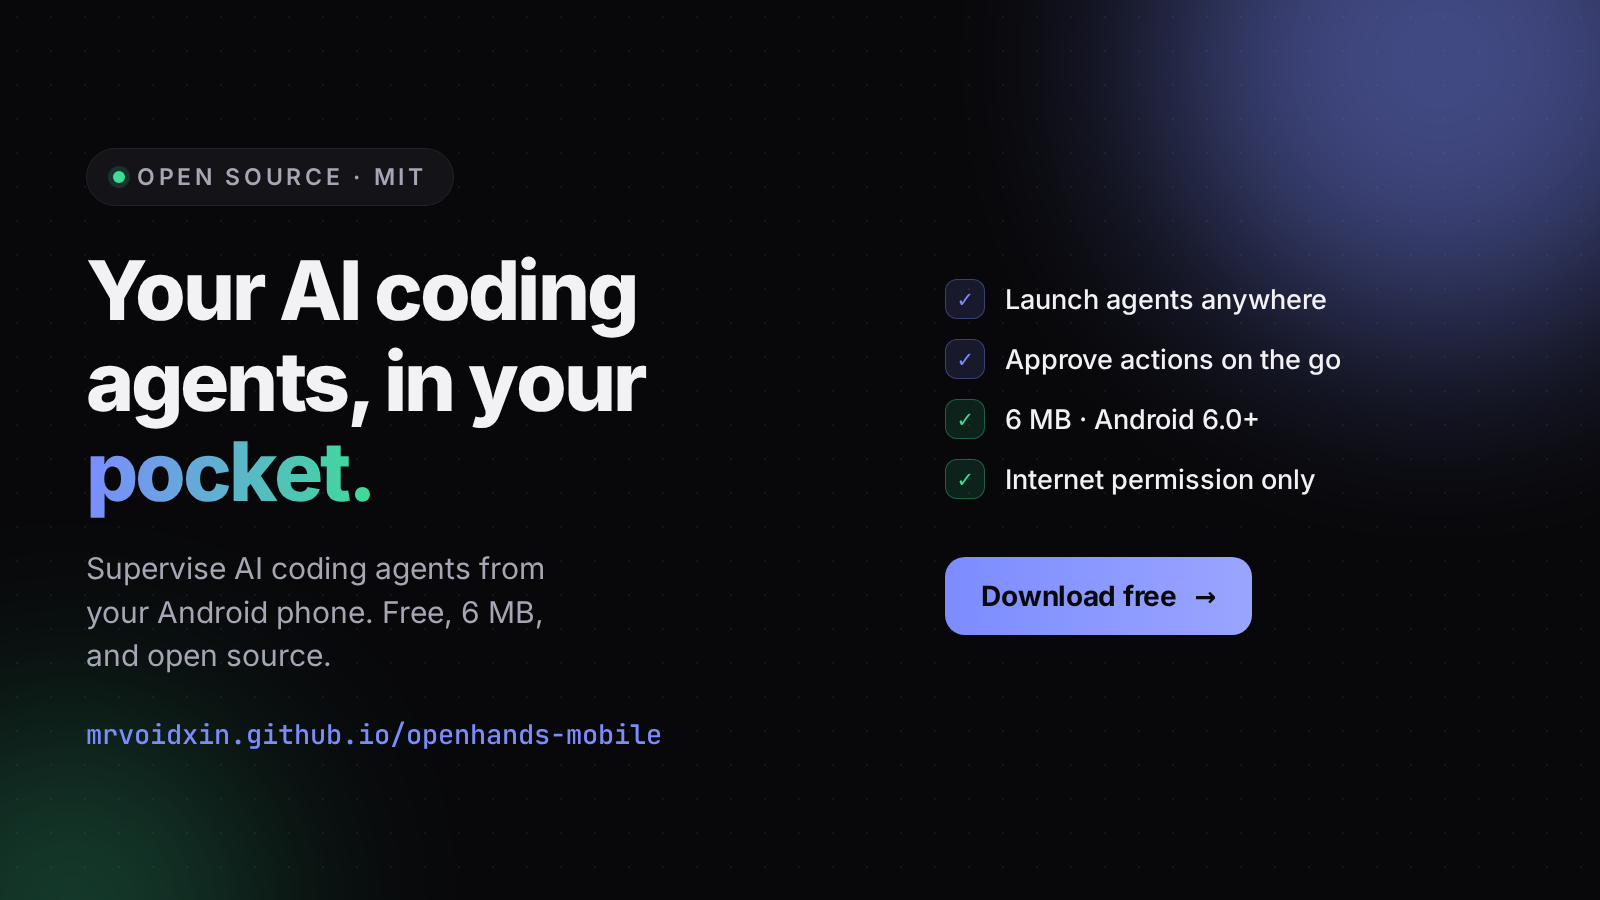
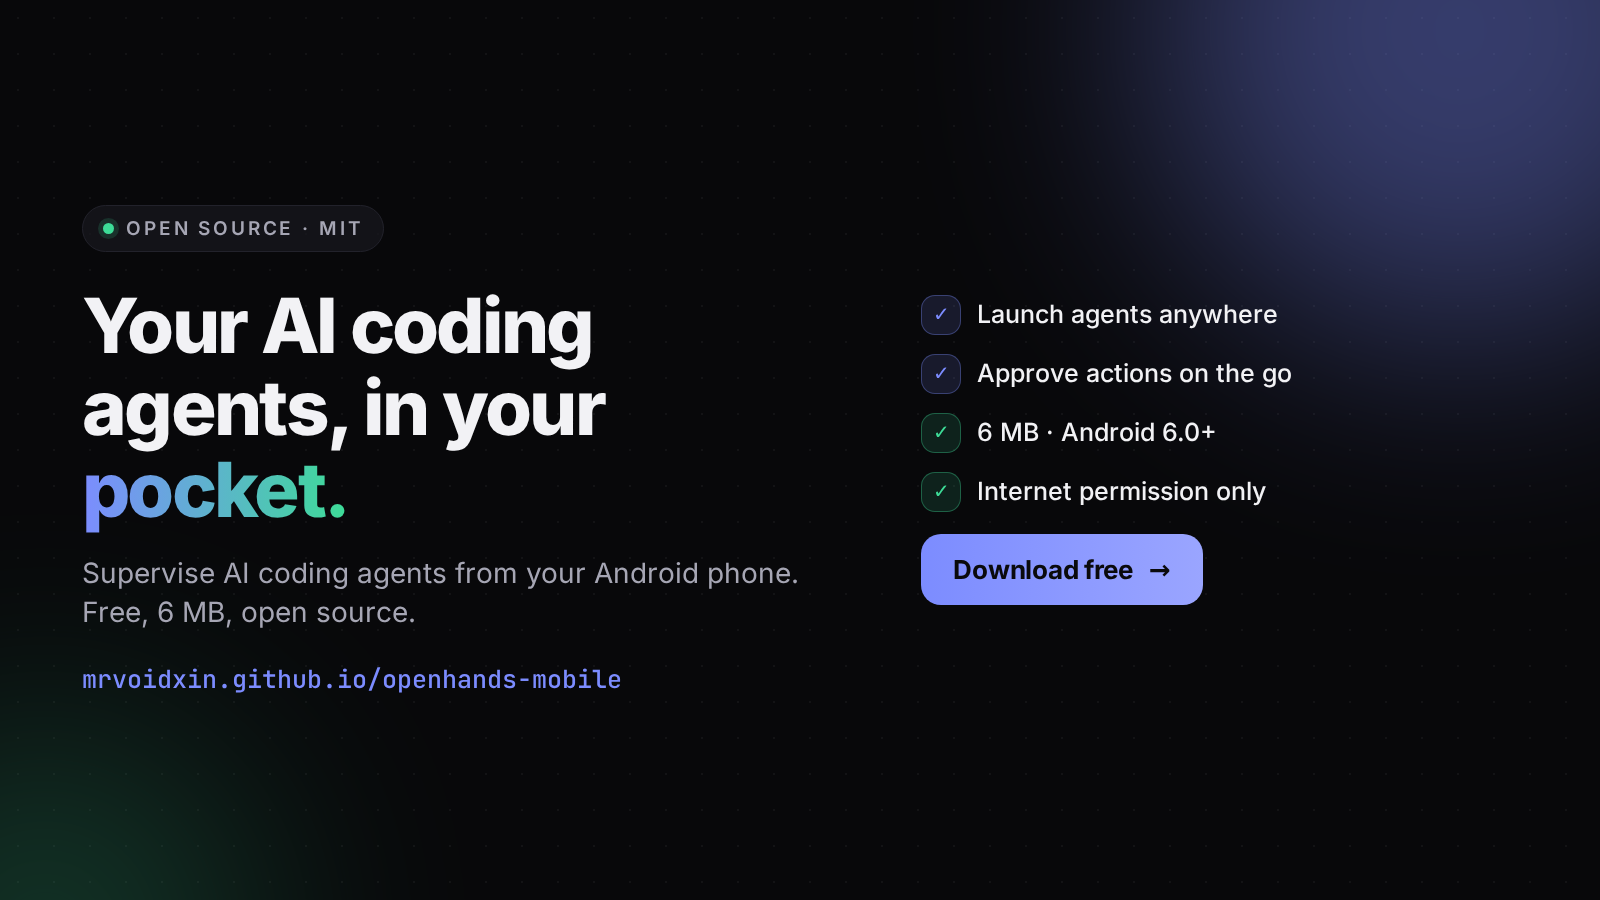
Make the promo art survive Instagram's grid crop
Instagram previews the profile grid as a 3:4 tile, so a square post is shown
with 135px trimmed off each side and a taller one is trimmed to match. The
first set put the headline and the URL near the edges, so the grid cropped
them: the post looked cut off.

Rebuilt every card around a centred 800px column - narrower than the 810px
a square post keeps in the grid - with the content vertically centred, so the
whole composition survives both the 1:1 and the 4:5 tile. A centred design
also hides the crop itself, instead of leaving a visible seam.

Ships each design in both formats: 1080x1350 (4:5) as the feed-first default
because it fills the most space, and 1080x1080 (1:1) for anyone on a square
grid. The wide banner is unchanged in size and only for X, LinkedIn, Reddit
and the GitHub social preview.

Verified every image: dimensions exact, all content inside the visible grid
band, no element leaving the frame, content column fits vertically, the CTA
button painted with the accent gradient, and no white edge on any border.

diff --git a/docs/promo/index.html b/docs/promo/index.html
@@ -12,43 +12,49 @@
     --text:#F2F2F5;--text-muted:#A6A6B4;--accent:#7C8CFF;--accent-2:#3DDC97;
   }
   *{box-sizing:border-box;margin:0;padding:0}
-  body{
-    background:var(--bg);color:var(--text);line-height:1.6;
+  body{background:var(--bg);color:var(--text);line-height:1.6;
     font-family:Inter,system-ui,-apple-system,"Segoe UI",sans-serif;
-    -webkit-font-smoothing:antialiased;padding:28px 18px 90px;
-  }
-  .wrap{max-width:880px;margin:0 auto}
+    -webkit-font-smoothing:antialiased;padding:28px 18px 90px}
+  .wrap{max-width:900px;margin:0 auto}
   h1{font-size:clamp(28px,6vw,42px);letter-spacing:-.03em;font-weight:800;line-height:1.1}
-  h2{font-size:clamp(19px,4vw,24px);letter-spacing:-.02em;font-weight:700;margin:44px 0 6px}
+  h2{font-size:clamp(19px,4vw,24px);letter-spacing:-.02em;font-weight:700;margin:46px 0 4px}
+  h3{font-size:16px;font-weight:600;margin-bottom:2px}
   .lead{color:var(--text-muted);margin-top:10px;font-size:16px}
-  .note{
-    border:1px solid var(--border);background:var(--surface);border-radius:14px;
-    padding:16px 18px;margin-top:22px;color:var(--text-muted);font-size:15px;
-  }
+  .note{border:1px solid var(--border);background:var(--surface);border-radius:14px;
+    padding:16px 18px;margin-top:20px;color:var(--text-muted);font-size:15px}
   .note b{color:var(--text)}
-  .grid{display:grid;gap:18px;margin-top:20px;grid-template-columns:repeat(auto-fit,minmax(240px,1fr))}
+  .note.warn{border-color:rgba(61,220,151,.34);background:rgba(61,220,151,.06)}
+  .note.warn b{color:var(--accent-2)}
+  .pick{display:grid;gap:14px;margin-top:18px;grid-template-columns:repeat(auto-fit,minmax(250px,1fr))}
+  .pickcard{border:1px solid var(--border);background:var(--surface);border-radius:14px;padding:16px 18px}
+  .pickcard.best{border-color:rgba(124,140,255,.5);background:rgba(124,140,255,.07)}
+  .pickcard h3{font-size:16px;font-weight:700}
+  .badge{display:inline-block;font-size:11px;font-weight:700;letter-spacing:.08em;text-transform:uppercase;
+    color:var(--accent-2);border:1px solid rgba(61,220,151,.4);border-radius:999px;padding:3px 9px;margin-bottom:8px}
+  .pickcard p{font-size:14px;color:var(--text-muted);margin-top:6px}
+  .grid{display:grid;gap:18px;margin-top:18px;grid-template-columns:repeat(auto-fit,minmax(250px,1fr))}
   figure{background:var(--surface);border:1px solid var(--border);border-radius:16px;overflow:hidden}
   figure img{display:block;width:100%;height:auto;background:var(--bg)}
   figcaption{padding:12px 14px;font-size:13px;color:var(--text-muted);display:flex;justify-content:space-between;gap:10px;align-items:center}
   figcaption b{color:var(--text);font-weight:600;font-size:14px;display:block}
-  .dl{font-size:12px;color:var(--accent);text-decoration:none;border:1px solid var(--border);padding:6px 11px;border-radius:999px;white-space:nowrap}
+  .dl{font-size:12px;color:var(--accent);text-decoration:none;border:1px solid var(--border);
+    padding:6px 11px;border-radius:999px;white-space:nowrap}
   .dl:hover{border-color:var(--accent)}
   .copyblock{background:var(--surface);border:1px solid var(--border);border-radius:16px;margin-top:14px;overflow:hidden}
   .copyhead{display:flex;justify-content:space-between;align-items:center;gap:12px;padding:13px 16px;border-bottom:1px solid var(--border)}
   .copyhead span{font-weight:600;font-size:15px}
-  button{
-    font:inherit;font-size:13px;font-weight:600;cursor:pointer;color:var(--text);
-    background:var(--surface-2);border:1px solid var(--border);padding:7px 14px;border-radius:9px;
-  }
+  button{font:inherit;font-size:13px;font-weight:600;cursor:pointer;color:var(--text);
+    background:var(--surface-2);border:1px solid var(--border);padding:7px 14px;border-radius:9px}
   button:hover{border-color:var(--accent)}
   button.done{color:var(--accent-2);border-color:rgba(61,220,151,.5)}
-  pre{
-    margin:0;padding:16px;white-space:pre-wrap;word-wrap:break-word;
+  pre{margin:0;padding:16px;white-space:pre-wrap;word-wrap:break-word;
     font-family:"JetBrains Mono",ui-monospace,Menlo,monospace;font-size:13.5px;
-    color:var(--text-muted);line-height:1.65;
-  }
+    color:var(--text-muted);line-height:1.65}
   a{color:var(--accent)}
   .foot{margin-top:52px;padding-top:22px;border-top:1px solid var(--border);color:var(--text-muted);font-size:14px}
+  ul.tips{margin:10px 0 0 18px;color:var(--text-muted);font-size:15px}
+  ul.tips li{margin-bottom:8px}
+  ul.tips b{color:var(--text)}
 </style>
 </head>
 <body>
@@ -57,37 +63,85 @@
   <h1>Promo kit</h1>
   <p class="lead">Ready-to-post art and copy for OpenHands Mobile. On a phone, long-press an image to save it. The copy blocks have a Copy button.</p>
 
-  <div class="note">
-    <b>Link used everywhere:</b> https://mrvoidxin.github.io/openhands-mobile/<br>
-    <b>Direct APK:</b> https://github.com/mrvoidxin/openhands-mobile/releases/latest/download/app-release.apk<br>
-    Keep the line about needing your own OpenHands server. It prevents "it does not work" comments.
+  <div class="note warn">
+    <b>Fixed: the images no longer get cropped.</b> Instagram previews the profile grid as a
+    3:4 tile, so it trims the sides off a square post and can cut tall ones. Every design here
+    now keeps all of its content inside the centre, so nothing important is ever cropped,
+    in the feed or in the grid.
   </div>
 
-  <h2>Images</h2>
+  <h2>Which size to use</h2>
+  <div class="pick">
+    <div class="pickcard best">
+      <span class="badge">Best reach</span>
+      <h3>1080 × 1350 (4:5) portrait</h3>
+      <p>Takes the most screen space in the feed, and the grid crop does not touch the content. Use these for the main post and each carousel slide.</p>
+    </div>
+    <div class="pickcard">
+      <h3>1080 × 1080 (1:1) square</h3>
+      <p>Safe and familiar. Same design, still fully visible in the grid because the content sits in the centre.</p>
+    </div>
+    <div class="pickcard">
+      <h3>1600 × 900 wide</h3>
+      <p>For X, LinkedIn, Reddit or a GitHub social preview. Not for Instagram.</p>
+    </div>
+  </div>
+
+  <h2>Instagram — carousel (recommended)</h2>
+  <p class="lead">Post these three in order. A carousel shows the hook, then the reason, then the link.</p>
   <div class="grid">
     <figure>
-      <img src="instagram-post-1080.png" alt="Square post: Your AI coding agents, in your pocket" loading="lazy">
-      <figcaption><span><b>Square post</b>1080 × 1080</span><a class="dl" href="instagram-post-1080.png" download>Save</a></figcaption>
+      <img src="instagram-carousel-1-why-1080x1350.png" alt="Slide 1: Small app. Real work." loading="lazy">
+      <figcaption><span><b>1 — Why</b>1080 × 1350</span><a class="dl" href="instagram-carousel-1-why-1080x1350.png" download>Save</a></figcaption>
     </figure>
     <figure>
-      <img src="carousel-1-why-1080x1350.png" alt="Carousel slide 1: Small app. Real work." loading="lazy">
-      <figcaption><span><b>Carousel 1 — why</b>1080 × 1350</span><a class="dl" href="carousel-1-why-1080x1350.png" download>Save</a></figcaption>
+      <img src="instagram-carousel-2-how-1080x1350.png" alt="Slide 2: Three steps" loading="lazy">
+      <figcaption><span><b>2 — How</b>1080 × 1350</span><a class="dl" href="instagram-carousel-2-how-1080x1350.png" download>Save</a></figcaption>
     </figure>
     <figure>
-      <img src="carousel-2-how-1080x1350.png" alt="Carousel slide 2: Three steps" loading="lazy">
-      <figcaption><span><b>Carousel 2 — how</b>1080 × 1350</span><a class="dl" href="carousel-2-how-1080x1350.png" download>Save</a></figcaption>
-    </figure>
-    <figure>
-      <img src="carousel-3-download-1080x1350.png" alt="Carousel slide 3: Get it now" loading="lazy">
-      <figcaption><span><b>Carousel 3 — download</b>1080 × 1350</span><a class="dl" href="carousel-3-download-1080x1350.png" download>Save</a></figcaption>
-    </figure>
-    <figure>
-      <img src="banner-wide-1600x900.png" alt="Wide banner: Your AI coding agents, in your pocket" loading="lazy">
-      <figcaption><span><b>Wide banner</b>1600 × 900</span><a class="dl" href="banner-wide-1600x900.png" download>Save</a></figcaption>
+      <img src="instagram-carousel-3-download-1080x1350.png" alt="Slide 3: Get it now" loading="lazy">
+      <figcaption><span><b>3 — Download</b>1080 × 1350</span><a class="dl" href="instagram-carousel-3-download-1080x1350.png" download>Save</a></figcaption>
     </figure>
   </div>
 
-  <h2>Instagram caption</h2>
+  <h2>Instagram — single post</h2>
+  <div class="grid">
+    <figure>
+      <img src="instagram-post-1080x1350.png" alt="Portrait post: Your AI coding agents, in your pocket" loading="lazy">
+      <figcaption><span><b>Portrait 4:5</b>1080 × 1350</span><a class="dl" href="instagram-post-1080x1350.png" download>Save</a></figcaption>
+    </figure>
+    <figure>
+      <img src="instagram-square-1080.png" alt="Square post: Your AI coding agents, in your pocket" loading="lazy">
+      <figcaption><span><b>Square 1:1</b>1080 × 1080</span><a class="dl" href="instagram-square-1080.png" download>Save</a></figcaption>
+    </figure>
+  </div>
+
+  <h2>Square versions of every slide</h2>
+  <p class="lead">If you prefer a square grid, use these instead of the 4:5 set.</p>
+  <div class="grid">
+    <figure>
+      <img src="instagram-square-why-1080.png" alt="Square slide: Small app. Real work." loading="lazy">
+      <figcaption><span><b>1 — Why</b>1080 × 1080</span><a class="dl" href="instagram-square-why-1080.png" download>Save</a></figcaption>
+    </figure>
+    <figure>
+      <img src="instagram-square-how-1080.png" alt="Square slide: Three steps" loading="lazy">
+      <figcaption><span><b>2 — How</b>1080 × 1080</span><a class="dl" href="instagram-square-how-1080.png" download>Save</a></figcaption>
+    </figure>
+    <figure>
+      <img src="instagram-square-download-1080.png" alt="Square slide: Get it now" loading="lazy">
+      <figcaption><span><b>3 — Download</b>1080 × 1080</span><a class="dl" href="instagram-square-download-1080.png" download>Save</a></figcaption>
+    </figure>
+  </div>
+
+  <h2>Wide banner</h2>
+  <div class="grid">
+    <figure>
+      <img src="banner-wide-1600x900.png" alt="Wide banner: Your AI coding agents, in your pocket" loading="lazy">
+      <figcaption><span><b>Wide 16:9</b>1600 × 900</span><a class="dl" href="banner-wide-1600x900.png" download>Save</a></figcaption>
+    </figure>
+  </div>
+
+  <h2>Captions</h2>
   <div class="copyblock">
     <div class="copyhead"><span>Short caption</span><button data-copy="cap1">Copy</button></div>
     <pre id="cap1">Your AI coding agents, now in your pocket.
@@ -142,9 +196,12 @@ Heads up: you need your own OpenHands server running for the app to connect to. 
 
   <h2>Posting notes</h2>
   <div class="note">
-    Instagram captions do not make links clickable. Put the link in the caption as plain text, and also drop it in the first comment, or say "link in bio".<br><br>
-    Use the carousel images in order: why, how, download. A carousel usually reaches further than a single image.<br><br>
-    Keep hashtags between 8 and 12. More than that looks like spam.
+    <ul class="tips">
+      <li><b>Links are not clickable in Instagram captions.</b> Write the link as plain text, drop it in the first comment too, and add "link in bio" if you can.</li>
+      <li><b>Use the carousel, not one image.</b> Carousels usually reach further than a single post.</li>
+      <li><b>Keep hashtags between 8 and 12.</b> More than that reads as spam.</li>
+      <li><b>Never crop the images yourself.</b> They are already sized and centre-safe. Cropping them again is what caused the problem before.</li>
+    </ul>
   </div>
 
   <p class="foot">
@@ -177,7 +234,7 @@ function fallback(text, done) {
   ta.style.top = "-1000px";
   document.body.appendChild(ta);
   ta.select();
-  try { document.execCommand("copy"); done(); } catch (e) { /* leave the text selected */ }
+  try { document.execCommand("copy"); done(); } catch (e) {}
   document.body.removeChild(ta);
 }
 </script>
